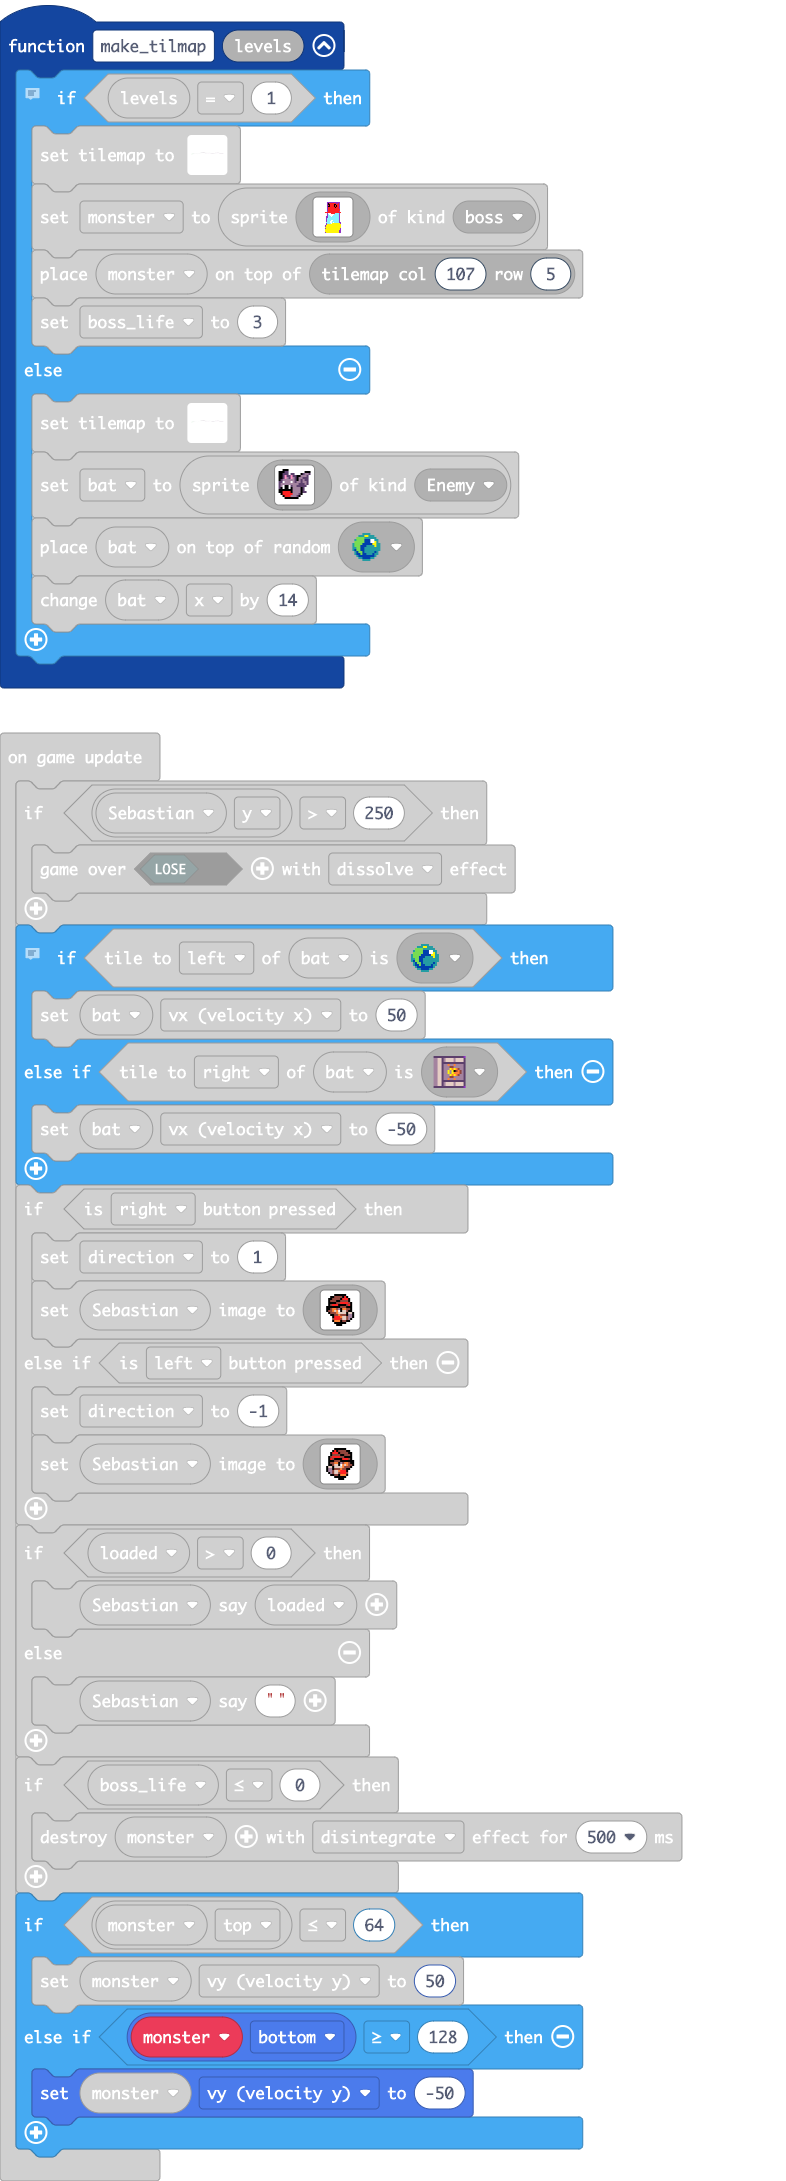
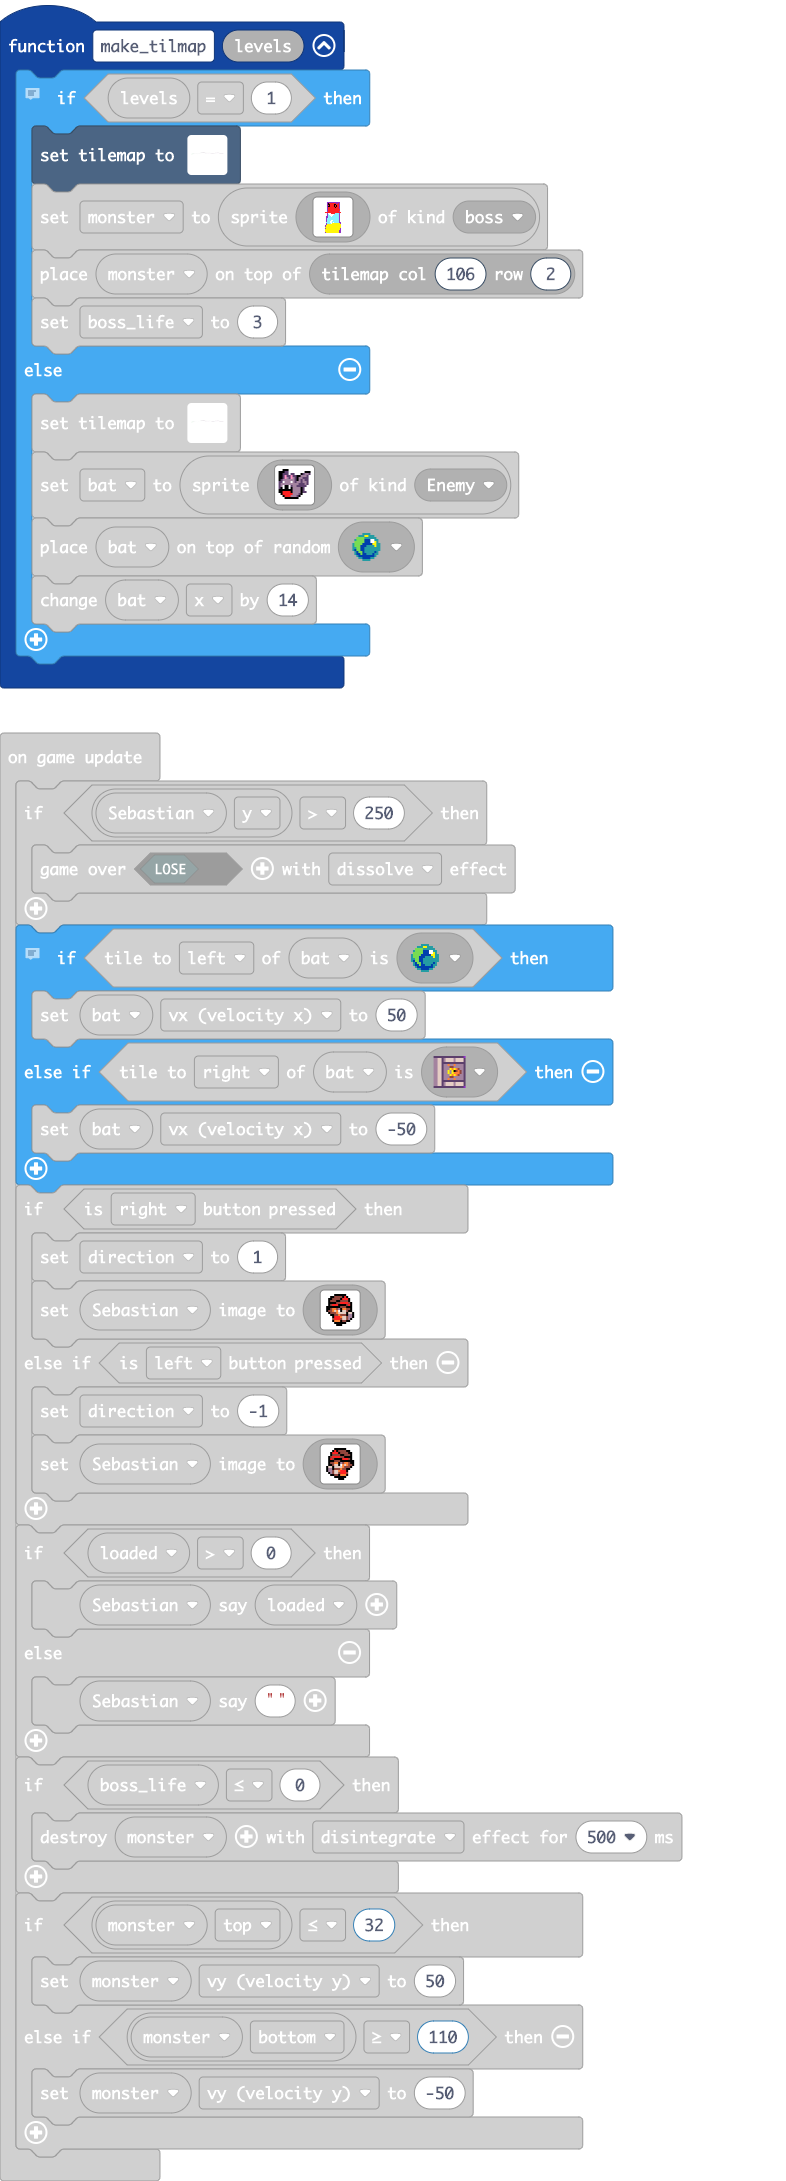
Update main.blocks, main.ts

Changed region(s): [[0.0, 0.8418, 0.7634, 0.9977], [0.0305, 0.0312, 0.3053, 0.0935]]

diff --git a/main.ts b/main.ts
@@ -58,7 +58,7 @@ sprites.onOverlap(SpriteKind.Player, SpriteKind.gun, function (sprite, otherSpri
 function make_tilmap (levels: number) {
     // levels remember to ask how to do more levels
     if (levels == 1) {
[2 lines of base64/hex data omitted]
             ......................................................................................2.................................................................................................................
             ............................................................2222......................2.................................................................................................................
             ................................................................2.....................2...............................................................................222...............................
@@ -124,7 +124,7 @@ function make_tilmap (levels: number) {
             55555555555555aa
             a5555555555555aa
             `, SpriteKind.boss)
-        tiles.placeOnTile(monster, tiles.getTileLocation(107, 5))
+        tiles.placeOnTile(monster, tiles.getTileLocation(106, 2))
         boss_life = 3
     } else {
[1 lines of base64/hex data omitted]
@@ -397,9 +397,9 @@ game.onUpdate(function () {
     if (boss_life <= 0) {
         monster.destroy(effects.disintegrate, 500)
     }
-    if (monster.top <= 64) {
+    if (monster.top <= 32) {
         monster.vy = 50
-    } else if (monster.bottom >= 128) {
+    } else if (monster.bottom >= 110) {
         monster.vy = -50
     }
 })
